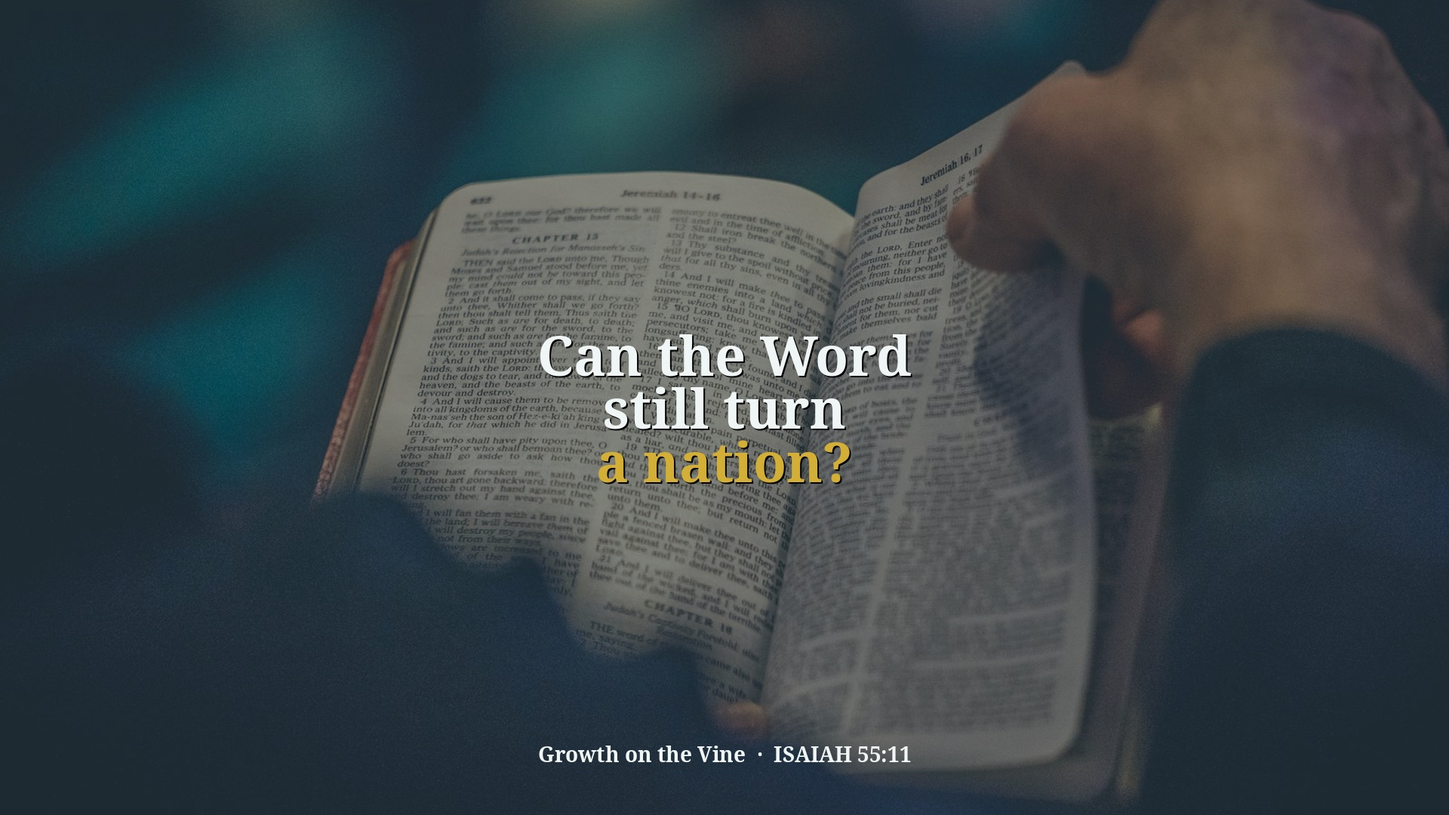
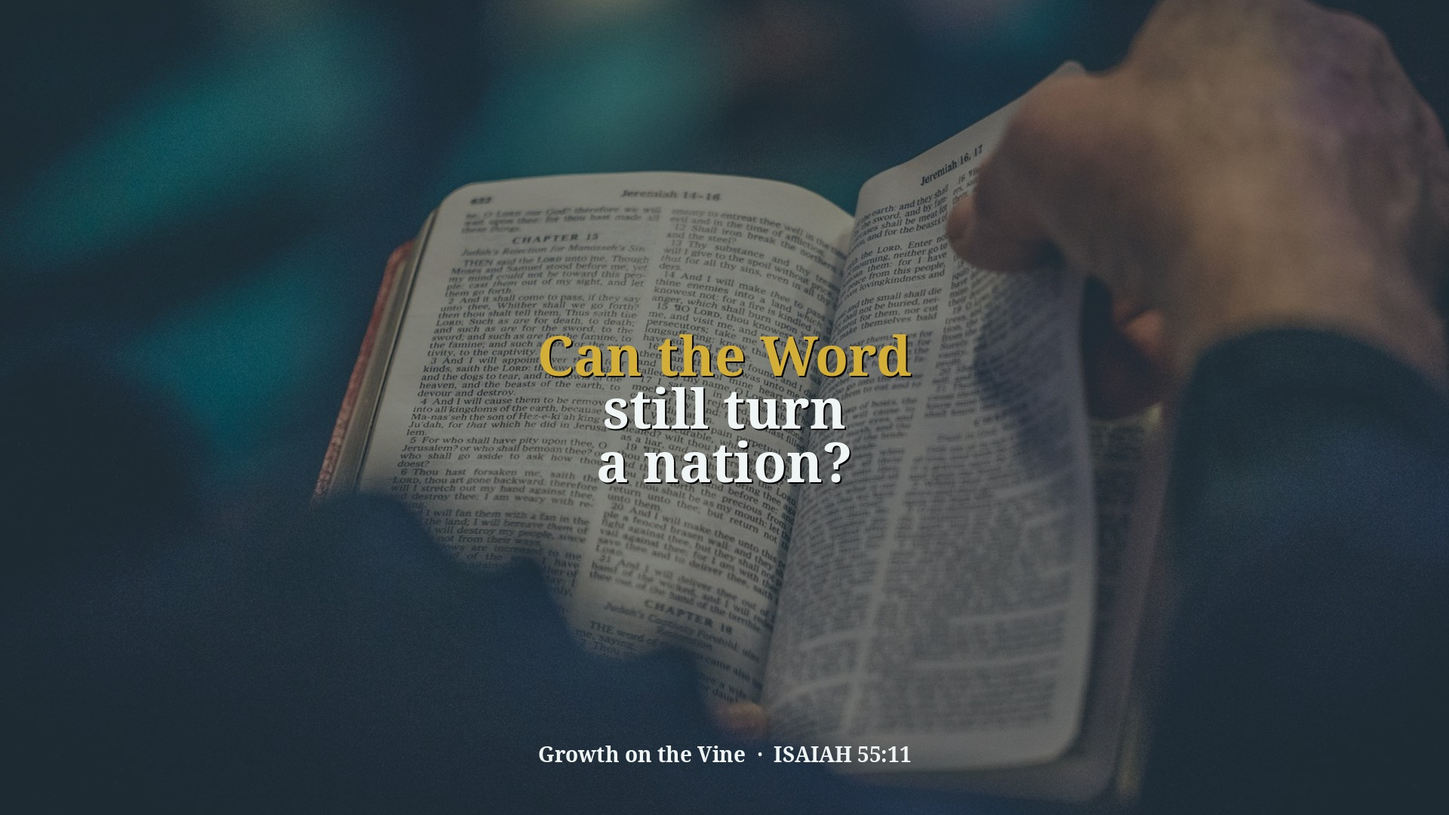
Publish Saving a Nation clip pages

Changed region(s): [[0.4062, 0.5194, 0.5938, 0.6111], [0.375, 0.3972, 0.625, 0.4583]]

diff --git a/clips/if-a-nation-turns/index.html b/clips/if-a-nation-turns/index.html
@@ -1,0 +1,20 @@
+<!DOCTYPE html><html lang="en"><head><meta charset="utf-8"><meta name="viewport" content="width=device-width, initial-scale=1"><title>What if a nation turns back to God? | Growth on the Vine</title><meta name="description" content="Jeremiah 18:8 says, “If that nation, against whom I have pronounced, turn from their evil, I will repent of the evil that I thought to do unto them.” Pastor David G. Kincer explains that God warns before judgment and that turning from evil to Bible morality brings a people under His protection."><link rel="canonical" href="https://growthonthevine.com/clips/if-a-nation-turns/"><meta name="theme-color" content="#0f2a20"><meta name="keywords" content="Jeremiah 18:8, Jeremiah 12:17, repentance, turn from evil, God’s mercy, Bible morality, Saving a Nation, nations"><link rel="icon" type="image/png" sizes="32x32" href="../../assets/img/favicon-32.png"><link rel="apple-touch-icon" href="../../assets/img/favicon.png"><meta property="og:type" content="video.other"><meta property="og:site_name" content="Growth on the Vine"><meta property="og:title" content="What if a nation turns back to God?"><meta property="og:description" content="Jeremiah 18:8 says, “If that nation, against whom I have pronounced, turn from their evil, I will repent of the evil that I thought to do unto them.” Pastor David G. Kincer explains that God warns before judgment and that turning from evil to Bible morality brings a people under His protection."><meta property="og:url" content="https://growthonthevine.com/clips/if-a-nation-turns/"><meta property="og:image" content="https://growthonthevine.com/assets/img/thumbs/if-a-nation-turns.jpg"><meta property="og:image:width" content="1280"><meta property="og:image:height" content="720"><meta property="og:video" content="https://growthonthevine.com/assets/video/previews/saving-a-nation/if-a-nation-turns.mp4"><meta property="og:video:type" content="video/mp4"><meta name="twitter:card" content="summary_large_image"><meta name="twitter:title" content="What if a nation turns back to God?"><meta name="twitter:description" content="Jeremiah 18:8 says, “If that nation, against whom I have pronounced, turn from their evil, I will repent of the evil that I thought to do unto them.” Pastor David G. Kincer explains that God warns before judgment and that turning from evil to Bible morality brings a people under His protection."><meta name="twitter:image" content="https://growthonthevine.com/assets/img/thumbs/if-a-nation-turns.jpg"><link rel="preconnect" href="https://fonts.googleapis.com"><link rel="preconnect" href="https://fonts.gstatic.com" crossorigin><link href="https://fonts.googleapis.com/css2?family=Libre+Baskerville:ital,wght@0,400;0,700;1,400&family=Source+Sans+3:wght@400;600;700&display=swap" rel="stylesheet"><link rel="stylesheet" href="../../assets/css/styles.css"><script type="application/ld+json">{
+  "@context": "https://schema.org",
+  "@type": "VideoObject",
+  "name": "What if a nation turns back to God?",
+  "description": "Jeremiah 18:8 says, “If that nation, against whom I have pronounced, turn from their evil, I will repent of the evil that I thought to do unto them.” Pastor David G. Kincer explains that God warns before judgment and that turning from evil to Bible morality brings a people under His protection.",
+  "thumbnailUrl": [
+    "https://growthonthevine.com/assets/img/thumbs/if-a-nation-turns.jpg"
+  ],
+  "uploadDate": "2026-09-25",
+  "duration": "PT73S",
+  "contentUrl": "https://growthonthevine.com/assets/video/previews/saving-a-nation/if-a-nation-turns.mp4",
+  "embedUrl": "https://growthonthevine.com/clips/if-a-nation-turns/",
+  "inLanguage": "en",
+  "isFamilyFriendly": true,
+  "publisher": {
+    "@type": "Organization",
+    "name": "Growth on the Vine"
+  },
+  "transcript": "Jeremiah 18:8 says, “If that nation, against whom I have pronounced, turn from their evil, I will repent of the evil that I thought to do unto them.” Pastor Kincer says God warns before He judges. If a nation turns from its evil ways and back to Bible morality, God can relent from the judgment He planned."
+}</script></head><body><header class="site-header"><div class="header-inner"><a class="brand" href="../../"><img src="../../assets/img/gotv-official.png" alt="" width="112" height="112"><span class="brand-text-stack"><span class="brand-text">Growth on the Vine</span><span class="brand-tagline">Believe, Know, &amp; Grow</span></span></a><nav class="nav" aria-label="Primary"><a href="../../">Home</a><a href="../../search/">Search the vines</a></nav></div></header><main class="wrap"><p class="section-label">Clip · Saving a Nation</p><h1>What if a nation turns back to God?</h1><div class="video-stage"><video controls playsinline preload="metadata" poster="../../assets/img/thumbs/if-a-nation-turns.jpg" title="What if a nation turns back to God?"><source src="../../assets/video/previews/saving-a-nation/if-a-nation-turns.mp4" type="video/mp4">Your browser does not support the video tag.</video></div><p class="hook">What if a nation turns back to God? Jeremiah shows that repentance matters even when judgment has been pronounced.</p><section class="takeaways" aria-labelledby="takeaway-heading"><div class="takeaway-card"><h2 id="takeaway-heading">Key Takeaway</h2><p>God warns before judgment, and a nation that turns from evil can receive mercy instead of the destruction it was headed toward.</p></div><div class="scripture-takeaway"><h2 id="key-scripture-heading">Key Scripture</h2><p>Jeremiah 18:8; Jeremiah 12:17 — “If that nation, against whom I have pronounced, turn from their evil, I will repent of the evil that I thought to do unto them. But if they will not obey, I will utterly pluck up and destroy that nation, saith the LORD.”</p></div></section><p>Jeremiah 18:8 says, “If that nation, against whom I have pronounced, turn from their evil, I will repent of the evil that I thought to do unto them.” Pastor David G. Kincer explains that God warns before judgment and that turning from evil to Bible morality brings a people under His protection.</p><blockquote>If that nation, against whom I have pronounced, turn from their evil, I will repent of the evil that I thought to do unto them. But if they will not obey, I will utterly pluck up and destroy that nation, saith the LORD.<cite>— Jeremiah 18:8; Jeremiah 12:17 (KJV)</cite></blockquote><section class="scripture-box" aria-labelledby="scripture-heading"><h2 id="scripture-heading">Scripture</h2><p><strong>Jeremiah 18:8; Jeremiah 12:17 (KJV)</strong> — “If that nation, against whom I have pronounced, turn from their evil, I will repent of the evil that I thought to do unto them. But if they will not obey, I will utterly pluck up and destroy that nation, saith the LORD.”</p><p class="note">Plain language: hear God’s Word, turn from evil, and let Scripture do its work in your life and community.</p></section><section aria-labelledby="transcript-heading"><h2 id="transcript-heading">Short transcript</h2><p>Jeremiah 18:8 says, “If that nation, against whom I have pronounced, turn from their evil, I will repent of the evil that I thought to do unto them.” Pastor Kincer says God warns before He judges. If a nation turns from its evil ways and back to Bible morality, God can relent from the judgment He planned.</p></section><section aria-labelledby="about-clip-heading"><h2 id="about-clip-heading">About this clip</h2><p>Drawn from Pastor David G. Kincer’s sermon <a href="https://www.youtube.com/watch?v=1FewcFhtiz8" rel="noopener noreferrer">“Saving a Nation”</a> (21:54–23:07). Music: "Touching Moments Two - Higher" Kevin MacLeod (incompetech.com) Licensed under Creative Commons: By Attribution 4.0 License http://creativecommons.org/licenses/by/4.0/</p></section><section class="crossword-section" aria-labelledby="crossword-heading"><h2 id="crossword-heading">Crossword</h2><p class="crossword-intro">Words from this clip — fill the grid, then Check your answers.</p><div data-crossword="crossword.json"></div></section><section aria-labelledby="tags-heading"><h2 id="tags-heading">Tags</h2><ul class="tags"><li>Jeremiah 18:8</li><li>Jeremiah 12:17</li><li>repentance</li><li>turn from evil</li><li>God’s mercy</li><li>Bible morality</li><li>Saving a Nation</li><li>nations</li></ul></section><p style="margin-top:2rem"><a class="btn" href="../../">← Back home</a></p></main><footer class="site-footer"><div class="footer-inner"><div><p class="footer-brand">Growth on the Vine</p><p>Public clip · Growth on the Vine.</p></div><div><p><a href="../../">Home</a> · <a href="../../search/">Search the vines</a></p></div></div></footer><script src="../../assets/js/crossword.js"></script></body></html>

diff --git a/clips/word-turns-a-nation/index.html b/clips/word-turns-a-nation/index.html
@@ -1,0 +1,20 @@
+<!DOCTYPE html><html lang="en"><head><meta charset="utf-8"><meta name="viewport" content="width=device-width, initial-scale=1"><title>Can the Word still turn a nation? | Growth on the Vine</title><meta name="description" content="Isaiah 55:11 promises, “So shall my word be that goeth forth out of my mouth: it shall not return unto me void, but it shall accomplish that which I please.” Pastor David G. Kincer says the Word itself convicts and convinces people, and that the turning of a nation starts with the church getting God’s Word out."><link rel="canonical" href="https://growthonthevine.com/clips/word-turns-a-nation/"><meta name="theme-color" content="#0f2a20"><meta name="keywords" content="Isaiah 55:11, Word of God, turn a nation, church, preach the Word, conviction, Saving a Nation, Scriptures"><link rel="icon" type="image/png" sizes="32x32" href="../../assets/img/favicon-32.png"><link rel="apple-touch-icon" href="../../assets/img/favicon.png"><meta property="og:type" content="video.other"><meta property="og:site_name" content="Growth on the Vine"><meta property="og:title" content="Can the Word still turn a nation?"><meta property="og:description" content="Isaiah 55:11 promises, “So shall my word be that goeth forth out of my mouth: it shall not return unto me void, but it shall accomplish that which I please.” Pastor David G. Kincer says the Word itself convicts and convinces people, and that the turning of a nation starts with the church getting God’s Word out."><meta property="og:url" content="https://growthonthevine.com/clips/word-turns-a-nation/"><meta property="og:image" content="https://growthonthevine.com/assets/img/thumbs/word-turns-a-nation.jpg"><meta property="og:image:width" content="1280"><meta property="og:image:height" content="720"><meta property="og:video" content="https://growthonthevine.com/assets/video/previews/saving-a-nation/word-turns-a-nation.mp4"><meta property="og:video:type" content="video/mp4"><meta name="twitter:card" content="summary_large_image"><meta name="twitter:title" content="Can the Word still turn a nation?"><meta name="twitter:description" content="Isaiah 55:11 promises, “So shall my word be that goeth forth out of my mouth: it shall not return unto me void, but it shall accomplish that which I please.” Pastor David G. Kincer says the Word itself convicts and convinces people, and that the turning of a nation starts with the church getting God’s Word out."><meta name="twitter:image" content="https://growthonthevine.com/assets/img/thumbs/word-turns-a-nation.jpg"><link rel="preconnect" href="https://fonts.googleapis.com"><link rel="preconnect" href="https://fonts.gstatic.com" crossorigin><link href="https://fonts.googleapis.com/css2?family=Libre+Baskerville:ital,wght@0,400;0,700;1,400&family=Source+Sans+3:wght@400;600;700&display=swap" rel="stylesheet"><link rel="stylesheet" href="../../assets/css/styles.css"><script type="application/ld+json">{
+  "@context": "https://schema.org",
+  "@type": "VideoObject",
+  "name": "Can the Word still turn a nation?",
+  "description": "Isaiah 55:11 promises, “So shall my word be that goeth forth out of my mouth: it shall not return unto me void, but it shall accomplish that which I please.” Pastor David G. Kincer says the Word itself convicts and convinces people, and that the turning of a nation starts with the church getting God’s Word out.",
+  "thumbnailUrl": [
+    "https://growthonthevine.com/assets/img/thumbs/word-turns-a-nation.jpg"
+  ],
+  "uploadDate": "2026-09-25",
+  "duration": "PT84S",
+  "contentUrl": "https://growthonthevine.com/assets/video/previews/saving-a-nation/word-turns-a-nation.mp4",
+  "embedUrl": "https://growthonthevine.com/clips/word-turns-a-nation/",
+  "inLanguage": "en",
+  "isFamilyFriendly": true,
+  "publisher": {
+    "@type": "Organization",
+    "name": "Growth on the Vine"
+  },
+  "transcript": "Can the Word still turn a nation? Isaiah says God’s Word will not return unto Him void, but it will accomplish what He pleases. Pastor Kincer says it is the Word that must get out: it convicts and convinces people, and the turning of a nation starts with the church getting beyond its four walls."
+}</script></head><body><header class="site-header"><div class="header-inner"><a class="brand" href="../../"><img src="../../assets/img/gotv-official.png" alt="" width="112" height="112"><span class="brand-text-stack"><span class="brand-text">Growth on the Vine</span><span class="brand-tagline">Believe, Know, &amp; Grow</span></span></a><nav class="nav" aria-label="Primary"><a href="../../">Home</a><a href="../../search/">Search the vines</a></nav></div></header><main class="wrap"><p class="section-label">Clip · Saving a Nation</p><h1>Can the Word still turn a nation?</h1><div class="video-stage"><video controls playsinline preload="metadata" poster="../../assets/img/thumbs/word-turns-a-nation.jpg" title="Can the Word still turn a nation?"><source src="../../assets/video/previews/saving-a-nation/word-turns-a-nation.mp4" type="video/mp4">Your browser does not support the video tag.</video></div><p class="hook">Can the Word still turn a nation? God’s Word does the work when the church faithfully gets it beyond its four walls.</p><section class="takeaways" aria-labelledby="takeaway-heading"><div class="takeaway-card"><h2 id="takeaway-heading">Key Takeaway</h2><p>The Word itself convicts and convinces people; the turning of a nation starts with the church speaking Scripture beyond its walls.</p></div><div class="scripture-takeaway"><h2 id="key-scripture-heading">Key Scripture</h2><p>Isaiah 55:11 — “So shall my word be that goeth forth out of my mouth: it shall not return unto me void, but it shall accomplish that which I please, and it shall prosper in the thing whereto I sent it.”</p></div></section><p>Isaiah 55:11 promises, “So shall my word be that goeth forth out of my mouth: it shall not return unto me void, but it shall accomplish that which I please.” Pastor David G. Kincer says the Word itself convicts and convinces people, and that the turning of a nation starts with the church getting God’s Word out.</p><blockquote>So shall my word be that goeth forth out of my mouth: it shall not return unto me void, but it shall accomplish that which I please, and it shall prosper in the thing whereto I sent it.<cite>— Isaiah 55:11 (KJV)</cite></blockquote><section class="scripture-box" aria-labelledby="scripture-heading"><h2 id="scripture-heading">Scripture</h2><p><strong>Isaiah 55:11 (KJV)</strong> — “So shall my word be that goeth forth out of my mouth: it shall not return unto me void, but it shall accomplish that which I please, and it shall prosper in the thing whereto I sent it.”</p><p class="note">Plain language: hear God’s Word, turn from evil, and let Scripture do its work in your life and community.</p></section><section aria-labelledby="transcript-heading"><h2 id="transcript-heading">Short transcript</h2><p>Can the Word still turn a nation? Isaiah says God’s Word will not return unto Him void, but it will accomplish what He pleases. Pastor Kincer says it is the Word that must get out: it convicts and convinces people, and the turning of a nation starts with the church getting beyond its four walls.</p></section><section aria-labelledby="about-clip-heading"><h2 id="about-clip-heading">About this clip</h2><p>Drawn from Pastor David G. Kincer’s sermon <a href="https://www.youtube.com/watch?v=1FewcFhtiz8" rel="noopener noreferrer">“Saving a Nation”</a> (31:16–32:40). Music: "Faith In Tomorrow" by Sascha Ende, licensed under CC BY 4.0 (https://creativecommons.org/licenses/by/4.0/)</p></section><section class="crossword-section" aria-labelledby="crossword-heading"><h2 id="crossword-heading">Crossword</h2><p class="crossword-intro">Words from this clip — fill the grid, then Check your answers.</p><div data-crossword="crossword.json"></div></section><section aria-labelledby="tags-heading"><h2 id="tags-heading">Tags</h2><ul class="tags"><li>Isaiah 55:11</li><li>Word of God</li><li>turn a nation</li><li>church</li><li>preach the Word</li><li>conviction</li><li>Saving a Nation</li><li>Scriptures</li></ul></section><p style="margin-top:2rem"><a class="btn" href="../../">← Back home</a></p></main><footer class="site-footer"><div class="footer-inner"><div><p class="footer-brand">Growth on the Vine</p><p>Public clip · Growth on the Vine.</p></div><div><p><a href="../../">Home</a> · <a href="../../search/">Search the vines</a></p></div></div></footer><script src="../../assets/js/crossword.js"></script></body></html>

diff --git a/clips/speak-smooth-things/index.html b/clips/speak-smooth-things/index.html
@@ -1,0 +1,20 @@
+<!DOCTYPE html><html lang="en"><head><meta charset="utf-8"><meta name="viewport" content="width=device-width, initial-scale=1"><title>Do we only want to hear smooth things? | Growth on the Vine</title><meta name="description" content="Isaiah 30:10 describes people saying, “Prophesy not unto us right things, speak unto us smooth things, prophesy deceits.” Pastor David G. Kincer says people may pay ministers to tell them what they want to hear instead of letting God’s Word call them to righteousness."><link rel="canonical" href="https://growthonthevine.com/clips/speak-smooth-things/"><meta name="theme-color" content="#0f2a20"><meta name="keywords" content="Isaiah 30:10, smooth things, false prophets, Bible truth, preach truth, righteousness, Saving a Nation, Scriptures"><link rel="icon" type="image/png" sizes="32x32" href="../../assets/img/favicon-32.png"><link rel="apple-touch-icon" href="../../assets/img/favicon.png"><meta property="og:type" content="video.other"><meta property="og:site_name" content="Growth on the Vine"><meta property="og:title" content="Do we only want to hear smooth things?"><meta property="og:description" content="Isaiah 30:10 describes people saying, “Prophesy not unto us right things, speak unto us smooth things, prophesy deceits.” Pastor David G. Kincer says people may pay ministers to tell them what they want to hear instead of letting God’s Word call them to righteousness."><meta property="og:url" content="https://growthonthevine.com/clips/speak-smooth-things/"><meta property="og:image" content="https://growthonthevine.com/assets/img/thumbs/speak-smooth-things.jpg"><meta property="og:image:width" content="1280"><meta property="og:image:height" content="720"><meta property="og:video" content="https://growthonthevine.com/assets/video/previews/saving-a-nation/speak-smooth-things.mp4"><meta property="og:video:type" content="video/mp4"><meta name="twitter:card" content="summary_large_image"><meta name="twitter:title" content="Do we only want to hear smooth things?"><meta name="twitter:description" content="Isaiah 30:10 describes people saying, “Prophesy not unto us right things, speak unto us smooth things, prophesy deceits.” Pastor David G. Kincer says people may pay ministers to tell them what they want to hear instead of letting God’s Word call them to righteousness."><meta name="twitter:image" content="https://growthonthevine.com/assets/img/thumbs/speak-smooth-things.jpg"><link rel="preconnect" href="https://fonts.googleapis.com"><link rel="preconnect" href="https://fonts.gstatic.com" crossorigin><link href="https://fonts.googleapis.com/css2?family=Libre+Baskerville:ital,wght@0,400;0,700;1,400&family=Source+Sans+3:wght@400;600;700&display=swap" rel="stylesheet"><link rel="stylesheet" href="../../assets/css/styles.css"><script type="application/ld+json">{
+  "@context": "https://schema.org",
+  "@type": "VideoObject",
+  "name": "Do we only want to hear smooth things?",
+  "description": "Isaiah 30:10 describes people saying, “Prophesy not unto us right things, speak unto us smooth things, prophesy deceits.” Pastor David G. Kincer says people may pay ministers to tell them what they want to hear instead of letting God’s Word call them to righteousness.",
+  "thumbnailUrl": [
+    "https://growthonthevine.com/assets/img/thumbs/speak-smooth-things.jpg"
+  ],
+  "uploadDate": "2026-09-25",
+  "duration": "PT81S",
+  "contentUrl": "https://growthonthevine.com/assets/video/previews/saving-a-nation/speak-smooth-things.mp4",
+  "embedUrl": "https://growthonthevine.com/clips/speak-smooth-things/",
+  "inLanguage": "en",
+  "isFamilyFriendly": true,
+  "publisher": {
+    "@type": "Organization",
+    "name": "Growth on the Vine"
+  },
+  "transcript": "Do we only want to hear smooth things? Isaiah says, “Prophesy not unto us right things, speak unto us smooth things, prophesy deceits.” Pastor Kincer says they pay ministers to preach what they want to hear. They want to be told they are okay, but Scripture is given for righteousness."
+}</script></head><body><header class="site-header"><div class="header-inner"><a class="brand" href="../../"><img src="../../assets/img/gotv-official.png" alt="" width="112" height="112"><span class="brand-text-stack"><span class="brand-text">Growth on the Vine</span><span class="brand-tagline">Believe, Know, &amp; Grow</span></span></a><nav class="nav" aria-label="Primary"><a href="../../">Home</a><a href="../../search/">Search the vines</a></nav></div></header><main class="wrap"><p class="section-label">Clip · Saving a Nation</p><h1>Do we only want to hear smooth things?</h1><div class="video-stage"><video controls playsinline preload="metadata" poster="../../assets/img/thumbs/speak-smooth-things.jpg" title="Do we only want to hear smooth things?"><source src="../../assets/video/previews/saving-a-nation/speak-smooth-things.mp4" type="video/mp4">Your browser does not support the video tag.</video></div><p class="hook">Do we only want to hear smooth things? God’s Word does not flatter us into comfort; it calls us to hear and obey what is right.</p><section class="takeaways" aria-labelledby="takeaway-heading"><div class="takeaway-card"><h2 id="takeaway-heading">Key Takeaway</h2><p>Pastor Kincer warns that people may pay ministers to preach what they want to hear, but Scripture is given to turn us toward righteousness.</p></div><div class="scripture-takeaway"><h2 id="key-scripture-heading">Key Scripture</h2><p>Isaiah 30:10 — “Which say to the seers, See not; and to the prophets, Prophesy not unto us right things, speak unto us smooth things, prophesy deceits.”</p></div></section><p>Isaiah 30:10 describes people saying, “Prophesy not unto us right things, speak unto us smooth things, prophesy deceits.” Pastor David G. Kincer says people may pay ministers to tell them what they want to hear instead of letting God’s Word call them to righteousness.</p><blockquote>Which say to the seers, See not; and to the prophets, Prophesy not unto us right things, speak unto us smooth things, prophesy deceits.<cite>— Isaiah 30:10 (KJV)</cite></blockquote><section class="scripture-box" aria-labelledby="scripture-heading"><h2 id="scripture-heading">Scripture</h2><p><strong>Isaiah 30:10 (KJV)</strong> — “Which say to the seers, See not; and to the prophets, Prophesy not unto us right things, speak unto us smooth things, prophesy deceits.”</p><p class="note">Plain language: hear God’s Word, turn from evil, and let Scripture do its work in your life and community.</p></section><section aria-labelledby="transcript-heading"><h2 id="transcript-heading">Short transcript</h2><p>Do we only want to hear smooth things? Isaiah says, “Prophesy not unto us right things, speak unto us smooth things, prophesy deceits.” Pastor Kincer says they pay ministers to preach what they want to hear. They want to be told they are okay, but Scripture is given for righteousness.</p></section><section aria-labelledby="about-clip-heading"><h2 id="about-clip-heading">About this clip</h2><p>Drawn from Pastor David G. Kincer’s sermon <a href="https://www.youtube.com/watch?v=1FewcFhtiz8" rel="noopener noreferrer">“Saving a Nation”</a> (19:34–20:55). Music: 'Resolutions' by Scott Buckley - released under CC-BY 4.0. www.scottbuckley.com.au</p></section><section class="crossword-section" aria-labelledby="crossword-heading"><h2 id="crossword-heading">Crossword</h2><p class="crossword-intro">Words from this clip — fill the grid, then Check your answers.</p><div data-crossword="crossword.json"></div></section><section aria-labelledby="tags-heading"><h2 id="tags-heading">Tags</h2><ul class="tags"><li>Isaiah 30:10</li><li>smooth things</li><li>false prophets</li><li>Bible truth</li><li>preach truth</li><li>righteousness</li><li>Saving a Nation</li><li>Scriptures</li></ul></section><p style="margin-top:2rem"><a class="btn" href="../../">← Back home</a></p></main><footer class="site-footer"><div class="footer-inner"><div><p class="footer-brand">Growth on the Vine</p><p>Public clip · Growth on the Vine.</p></div><div><p><a href="../../">Home</a> · <a href="../../search/">Search the vines</a></p></div></div></footer><script src="../../assets/js/crossword.js"></script></body></html>

diff --git a/index.html b/index.html
@@ -93,6 +93,9 @@
         <span class="cta-row">Watch the clip →</span>
       </div>
     </a>
+<a class="clip-card" href="clips/speak-smooth-things/"><div class="clip-card-media"><img src="assets/img/thumbs/speak-smooth-things.jpg" alt="Do we only want to hear smooth things?" width="1280" height="720" loading="lazy" decoding="async"><span class="play-badge">~1 min</span></div><div class="clip-card-body"><div class="clip-meta"><span>Isaiah 30:10</span><span>Saving a Nation</span></div><h2>Do we only want to hear smooth things?</h2><p>Pastor Kincer warns that people may pay ministers to preach what they want to hear, but Scripture is given to turn us toward righteousness.</p><span class="cta-row">Watch the clip →</span></div></a>
+<a class="clip-card" href="clips/if-a-nation-turns/"><div class="clip-card-media"><img src="assets/img/thumbs/if-a-nation-turns.jpg" alt="What if a nation turns back to God?" width="1280" height="720" loading="lazy" decoding="async"><span class="play-badge">~1 min</span></div><div class="clip-card-body"><div class="clip-meta"><span>Jeremiah 18:8</span><span>Saving a Nation</span></div><h2>What if a nation turns back to God?</h2><p>God warns before judgment, and a nation that turns from evil can receive mercy instead of the destruction it was headed toward.</p><span class="cta-row">Watch the clip →</span></div></a>
+<a class="clip-card" href="clips/word-turns-a-nation/"><div class="clip-card-media"><img src="assets/img/thumbs/word-turns-a-nation.jpg" alt="Can the Word still turn a nation?" width="1280" height="720" loading="lazy" decoding="async"><span class="play-badge">~1 min</span></div><div class="clip-card-body"><div class="clip-meta"><span>Isaiah 55:11</span><span>Saving a Nation</span></div><h2>Can the Word still turn a nation?</h2><p>The Word itself convicts and convinces people; the turning of a nation starts with the church speaking Scripture beyond its walls.</p><span class="cta-row">Watch the clip →</span></div></a>
 <a class="clip-card" href="clips/noise-without-love/">
       <div class="clip-card-media">
         <img src="assets/img/thumbs/noise-without-love.jpg" alt="What if my gifts are just noise?" width="1280" height="720" loading="lazy" decoding="async">

diff --git a/tracker/SERMONS.md b/tracker/SERMONS.md
@@ -41,14 +41,14 @@ Work folders: `sermons/<slug>/` going forward (legacy pilot: `pilot/a-more-excel
 - Work folder: `sermons/saving-a-nation/`
 - URL: https://www.youtube.com/watch?v=1FewcFhtiz8
 - Preview: https://growthonthevine.com/previews/saving-a-nation/
-- Shorts (illustrated · one **published**, three **preview**):
+- Shorts (illustrated · one **published**, three **scheduled**):
 
 | Slug | Default title | Scripture | Timestamps | Style | Status |
 |------|---------------|-----------|------------|-------|--------|
 | `blessings-or-his-rule` | Do we want God’s blessings — or His rule? | 1 Sam 8:7; Luke 19:14 | 10:14–11:35 | illustrated | **published** ([rIZCHnLapCk](https://youtube.com/shorts/rIZCHnLapCk)) |
-| `speak-smooth-things` | Do we only want to hear smooth things? | Isaiah 30:10 | 19:34–20:55 | illustrated | preview |
-| `if-a-nation-turns` | What if a nation turns back to God? | Jer 12:17; Jer 18:8 | 21:54–23:07 | illustrated | preview |
-| `word-turns-a-nation` | Can the Word still turn a nation? | Isaiah 55:11 (alluded) | 31:16–32:40 | illustrated | preview |
+| `speak-smooth-things` | Do we only want to hear smooth things? | Isaiah 30:10 | 19:34–20:55 | illustrated | **scheduled** |
+| `if-a-nation-turns` | What if a nation turns back to God? | Jer 12:17; Jer 18:8 | 21:54–23:07 | illustrated | **scheduled** |
+| `word-turns-a-nation` | Can the Word still turn a nation? | Isaiah 55:11 (alluded) | 31:16–32:40 | illustrated | **scheduled** |
 
 **Unused candidates:**
 
